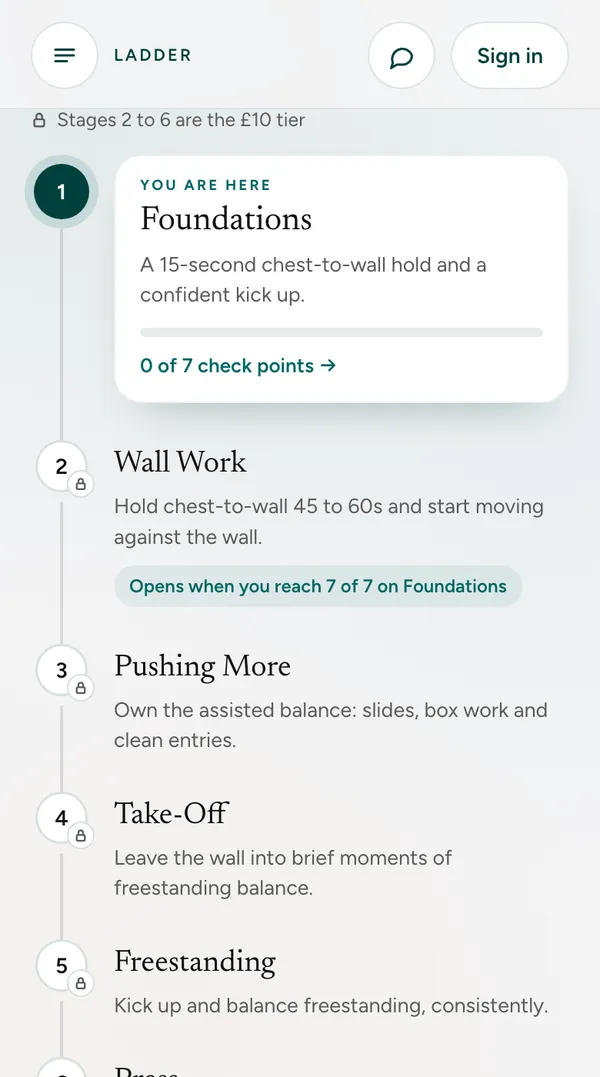
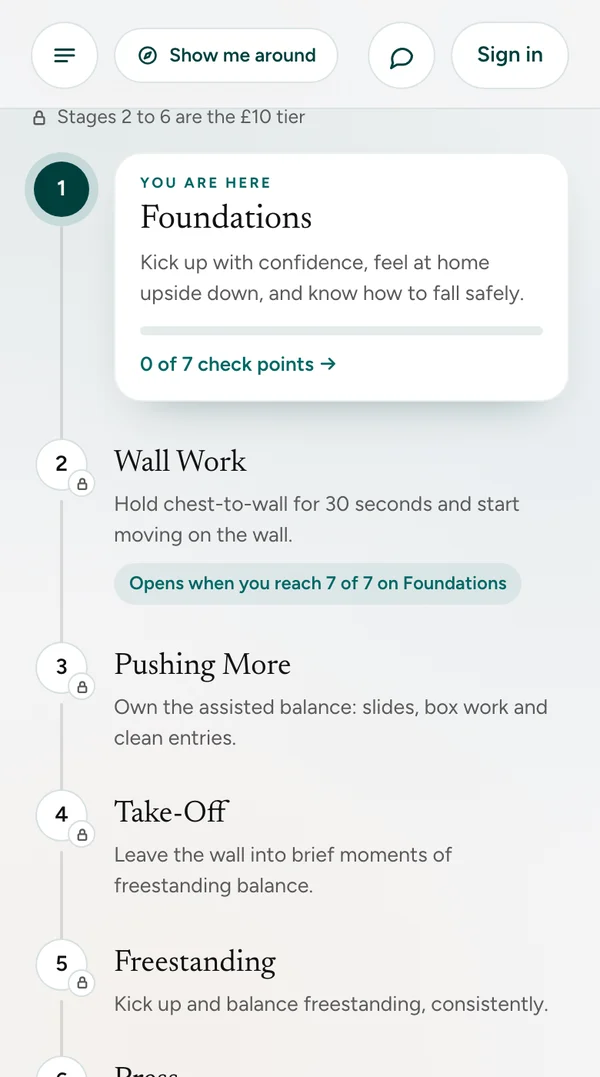
Foundations and Wall Work say what they are for
Foundations is kicking up with confidence, feeling at home upside down and
knowing how to fall safely, not a 15-second chest-to-wall hold: the goal,
summary and intro now say so (its check points already measured that).
Wall Work is a 30-second chest-to-wall hold and starting to move on the
wall, not 45 to 60 seconds; its chest-to-wall check point defaults to 30,
as the dashboard edit already had it live. The homepage's ladder
screenshot is retaken with the new lines. sw lha-v176

diff --git a/ladder-data.js b/ladder-data.js
@@ -19,7 +19,7 @@ const CHECKPOINTS={
     {k:'kickup-rate', n:'Kick up to the wall',      kind:'count', target:8,  demo:'wall-kick-ups', note:'Out of ten attempts, how many landed?'}
   ],
   1:[
-    {k:'ctw-hold',    n:'Chest-to-wall handstand',  kind:'secs',  target:45, demo:'chest-to-wall-handstand'},
+    {k:'ctw-hold',    n:'Chest-to-wall handstand',  kind:'secs',  target:30, demo:'chest-to-wall-handstand'},
     {k:'scap-shrugs', n:'Wall scapula shrugs',      kind:'count', target:15, demo:'wall-scapula-shrugs'},
     {k:'sl-tuck',     n:'Single-leg tuck slides',   kind:'count', target:10, demo:'single-leg-tuck-slides', note:'One side. How deep does the knee slide?'},
     {k:'pike-neg',    n:'Pike push-up negatives',   kind:'count', target:8,  demo:'pike-press-ups'},
@@ -73,10 +73,10 @@ const CP_KIND={
    so a check point can show the drill it is measuring. */
 
 const STAGES=[
- {n:'Foundations',sum:'Getting used to being upside down, your first kick-up, and learning to stack your hips over your shoulders.',rec:'We recommend two to three sessions a week.',goal:'A 15-second chest-to-wall hold and a confident kick up.',hold:'15s',intro:'Everything you need before going upside down for real. Wrist and shoulder resilience, kicking up to the wall, and getting comfortable holding chest-to-wall.',
+ {n:'Foundations',sum:'Getting used to being upside down, kicking up with confidence, and learning to fall safely.',rec:'We recommend two to three sessions a week.',goal:'Kick up with confidence, feel at home upside down, and know how to fall safely.',hold:'15s',intro:'Everything you need before going upside down for real. Wrist and shoulder resilience, kicking up with confidence, time spent upside down, and how to come down safely when it goes wrong.',
   ch:'Chest-to-wall hold',chSub:'Kick up to the wall and hold for 30 seconds. Do it with me.',
   drillIds:['wrist-circles-mob','plank-fingertip-lifts','shoulder-circles','downward-dog-pulses','chest-to-wall-bailouts','wall-walks','kick-up-bounces','scapula-shrugs','chest-to-wall-handstand','wall-kick-ups','p-l-handstand','chair-assisted-knee-lifts','chair-assisted-step-ups','dd-float-drills','p-dd-toe-taps','chaturganga-push-ups','p-pike-pushups-knees','dd-wrist-taps','palm-lifts-table-top','bunny-hops','knee-to-chest-kick-ups','fear-of-falling-cartwheel','proper-cartwheel','45-degree-wall-hold','push-ups-on-knees','wall-scapula-shrugs','floor-scapula-push-ups','chair-assisted-handstand-walks','chair-assisted-handstand-shoulder-adjustments','crow-pose','plank-pose']},
- {n:'Wall Work',sum:'Longer holds on the wall, stronger shoulders, and your first moves against it.',goal:'Hold chest-to-wall 45 to 60s and start moving against the wall.',hold:'45s',intro:'Now you own the wall, get strong and mobile on it. Scapular strength, longer holds, and the first movements that take weight off the wall.',
+ {n:'Wall Work',sum:'Longer holds on the wall, stronger shoulders, and your first moves against it.',goal:'Hold chest-to-wall for 30 seconds and start moving on the wall.',hold:'30s',intro:'Now you own the wall, get strong and mobile on it. Scapular strength, longer holds, and the first movements that take weight off the wall.',
   ch:'Slide away & hold',chSub:'Slide off the wall and hold your balance as long as you can. Aim for 15 seconds.',
   drillIds:['scapula-shrugs','wall-walks','tuck-slides','single-leg-tuck-slides','lateral-slide-outs','slide-away','pike-press-ups','knees-on-box','wall-kick-ups-progressions','p-tuck-handstand','p-tuck-slides','p-single-leg-tuck-slides','knees-on-box-single-leg-lifts','knees-on-box-knee-lift-offs','shoulder-pulses','p-pike-pushups','chair-assisted-handstand-shoulder-adjustments','chair-assisted-handstand-scapula-shrugs','wall-scapula-shrugs','floor-scapula-push-ups']},
  {n:'Pushing More',sum:'Taking your weight off the wall on purpose: slides, box work and cleaner entries.',goal:'Own the assisted balance: slides, box work and clean entries.',hold:'20s',

diff --git a/sw.js b/sw.js
@@ -9,7 +9,7 @@
    Bump CACHE_VERSION whenever you change the app HTML, otherwise
    returning users keep the old cached copy.
    ══════════════════════════════════════════════════════════════ */
-const CACHE_VERSION = 'lha-v175';
+const CACHE_VERSION = 'lha-v176';
 const SHELL_CACHE   = CACHE_VERSION + '-shell';
 /* Films somebody chose to keep for a gym with no signal. Not versioned: a
    new build of the app must not throw away what they saved on purpose. */
